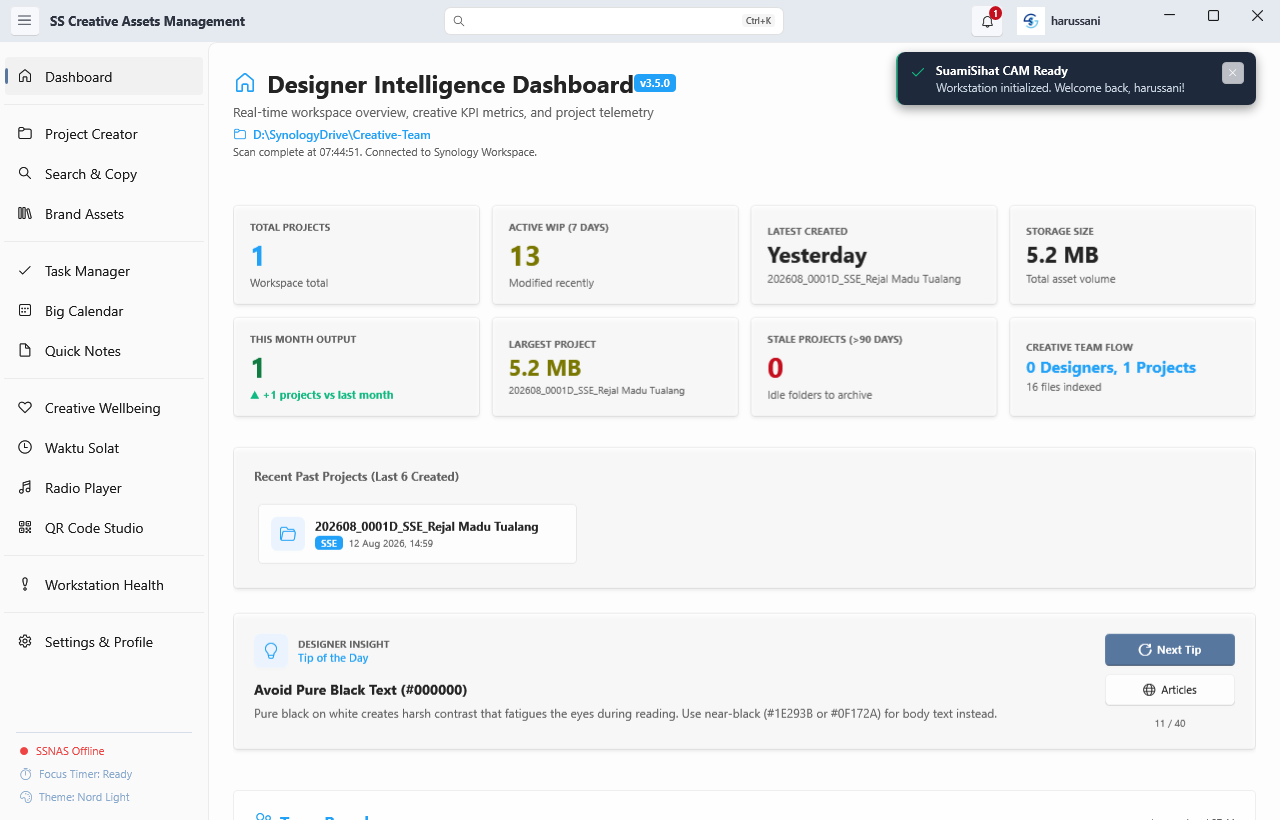
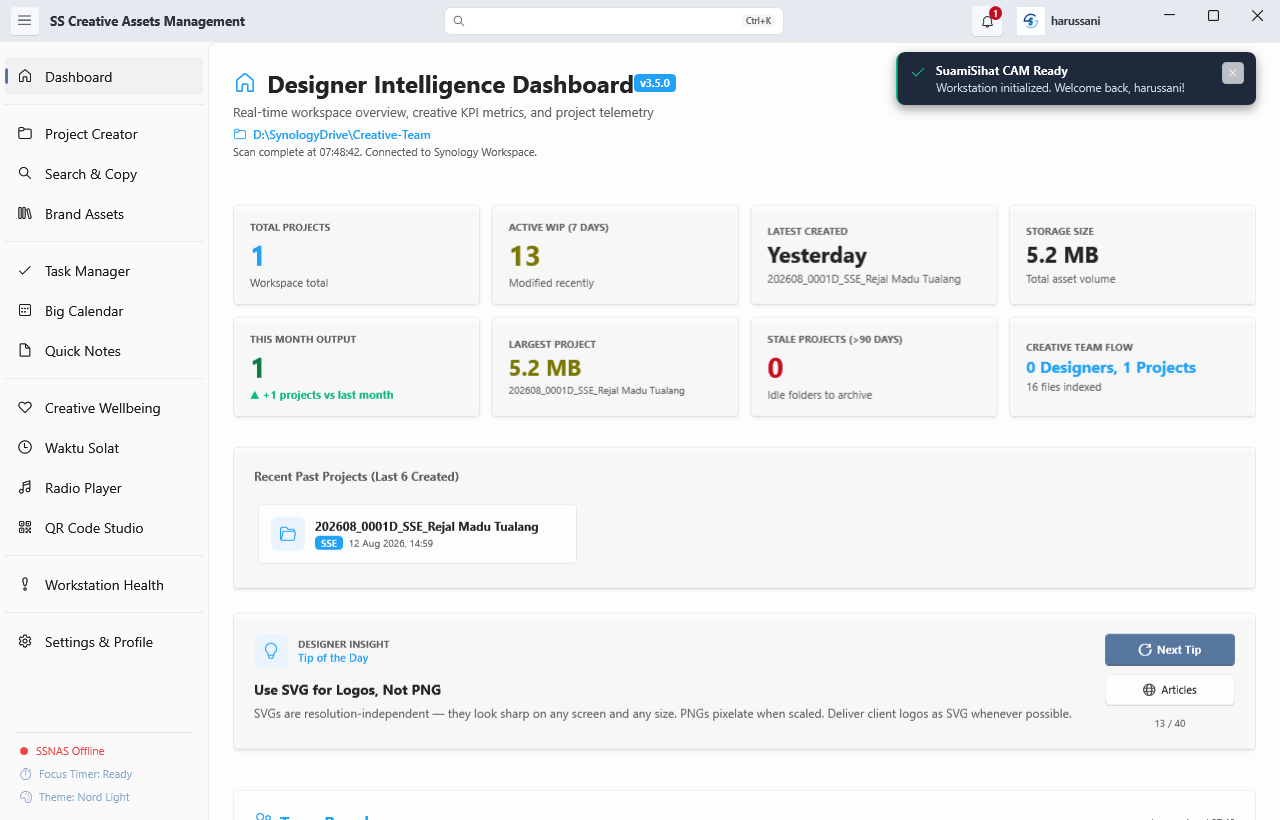
docs: include Task Manager, Big Calendar, and Quick Notes in GitHub Pages showcase with high-res v3.5.0 screenshots

Changed region(s): [[0.1875, 0.8232, 0.8438, 0.8841]]

diff --git a/docs/index.html b/docs/index.html
@@ -194,6 +194,9 @@
         <button class="tab-btn" data-target="tab-creator">Project Creator</button>
         <button class="tab-btn" data-target="tab-search">Search & Copy</button>
         <button class="tab-btn" data-target="tab-assets">Brand Assets</button>
+        <button class="tab-btn" data-target="tab-tasks">Task Manager</button>
+        <button class="tab-btn" data-target="tab-calendar">Big Calendar</button>
+        <button class="tab-btn" data-target="tab-notes">Quick Notes</button>
         <button class="tab-btn" data-target="tab-solat">Waktu Solat</button>
         <button class="tab-btn" data-target="tab-settings">Settings</button>
       </div>
@@ -241,6 +244,39 @@
           </div>
           <div class="panel-image-wrapper">
             <img src="app-brand-assets.png" alt="SS-CAM Brand Assets Module" class="panel-img">
+          </div>
+        </div>
+
+        <!-- Tab 5: Task Manager -->
+        <div class="showcase-panel" id="tab-tasks">
+          <div class="panel-info">
+            <h3 class="panel-title">YAML Frontmatter Task Board</h3>
+            <p class="panel-desc">Reads project task headers from workspace README files automatically. Track status columns (Backlog, In Progress, Review, Done), queue age indicators (<code>📅 14d in queue</code>), and FIFO queue order.</p>
+          </div>
+          <div class="panel-image-wrapper">
+            <img src="app-task-manager.png" alt="SS-CAM Task Manager Module" class="panel-img">
+          </div>
+        </div>
+
+        <!-- Tab 6: Big Calendar -->
+        <div class="showcase-panel" id="tab-calendar">
+          <div class="panel-info">
+            <h3 class="panel-title">7×6 Monthly Campaign Timetable</h3>
+            <p class="panel-desc">Visual monthly calendar mapping project creation start dates, delivery deadlines, Friday Solat markers, and interactive Day Detail Overlay inspector with month switcher navigation.</p>
+          </div>
+          <div class="panel-image-wrapper">
+            <img src="app-big-calendar.png" alt="SS-CAM Big Calendar Module" class="panel-img">
+          </div>
+        </div>
+
+        <!-- Tab 7: Quick Notes -->
+        <div class="showcase-panel" id="tab-notes">
+          <div class="panel-info">
+            <h3 class="panel-title">Markdown Scratchpad</h3>
+            <p class="panel-desc">Capture quick design specs, feedback notes, and client briefs with live Markdown rendering, note list sidebar, and auto-saving local storage.</p>
+          </div>
+          <div class="panel-image-wrapper">
+            <img src="app-quick-notes.png" alt="SS-CAM Quick Notes Module" class="panel-img">
           </div>
         </div>
 
